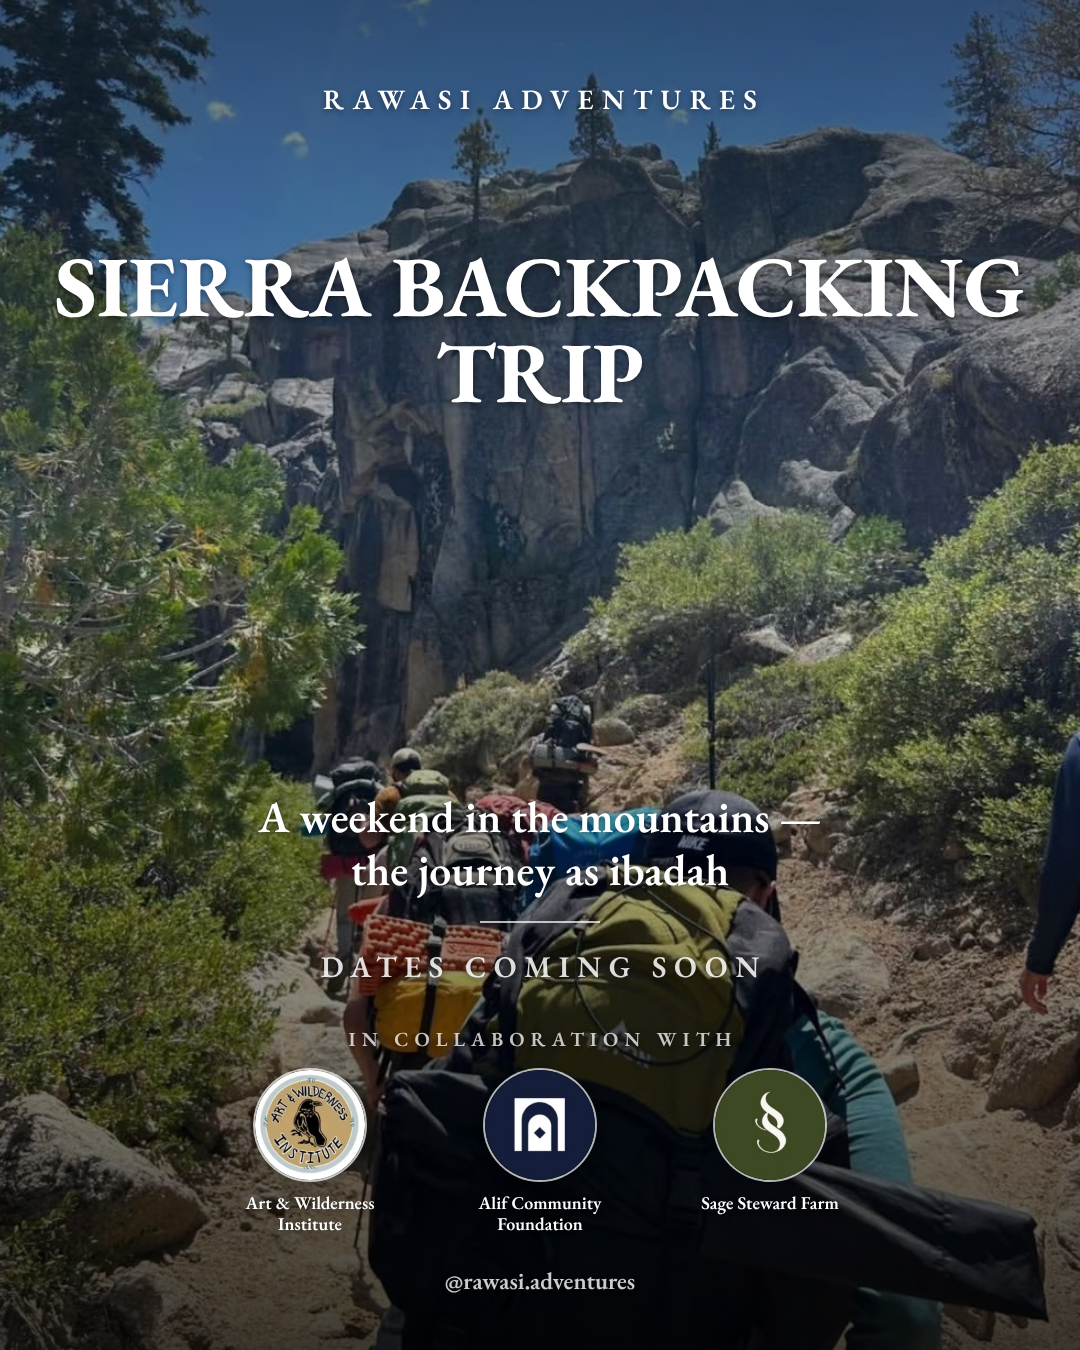
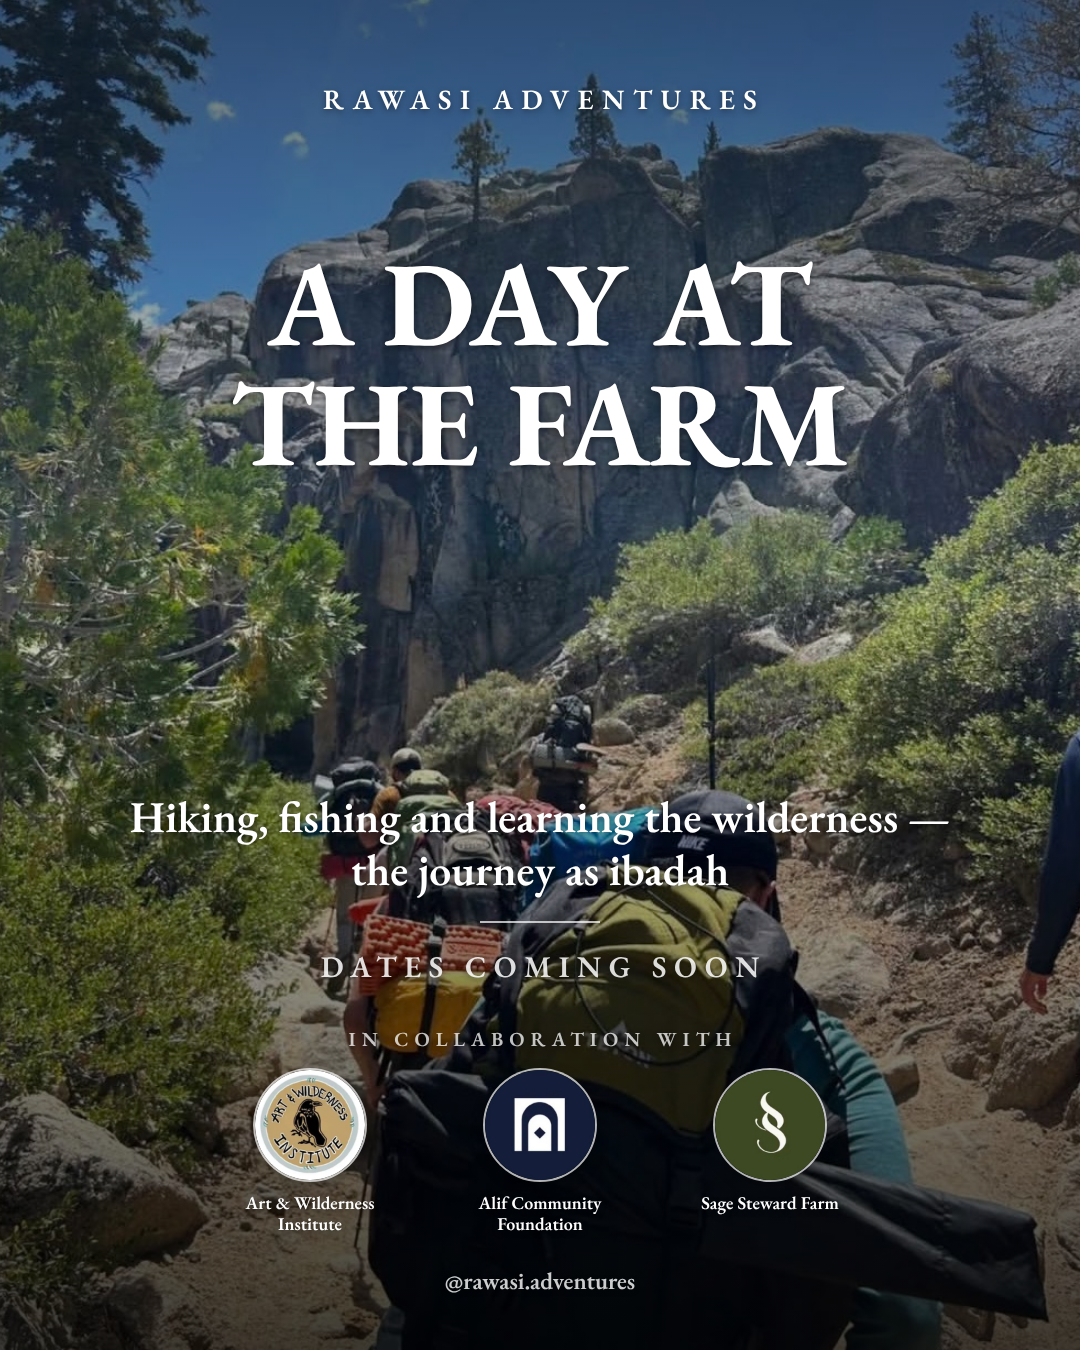
Retitle flyer as a day at the farm
Headline is now "A DAY AT / THE FARM" at 120px, and the subtitle
covers hiking, fishing and learning the wilderness.

Claude-Session: https://claude.ai/code/session_01XYZavWqfDaC2UMsvxFWpYF

Changed region(s): [[0.0306, 0.1867, 0.9472, 0.3422], [0.1222, 0.5911, 0.825, 0.6222]]

diff --git a/rawasi-hike-flyer.html b/rawasi-hike-flyer.html
@@ -3,7 +3,7 @@
 <head>
 <meta charset="UTF-8" />
 <meta name="viewport" content="width=device-width, initial-scale=1.0" />
-<title>Rawasi Adventures — Sierra Backpacking Trip</title>
+<title>Rawasi Adventures — A Day at the Farm</title>
 <link rel="preconnect" href="https://fonts.googleapis.com" />
 <link rel="preconnect" href="https://fonts.gstatic.com" crossorigin />
 <link href="https://fonts.googleapis.com/css2?family=EB+Garamond:wght@600;700&display=swap" rel="stylesheet" />
@@ -41,7 +41,7 @@
 
     /* 2. Headline */
     --headline-top: 18%;
-    --headline-size: 86px;
+    --headline-size: 120px;
     --headline-weight: 700;
     --headline-line: 1.0;
     --headline-tracking: 0;
@@ -53,7 +53,7 @@
     --subtitle-size: 44px;
     --subtitle-weight: 600;
     --subtitle-line: 1.2;
-    --subtitle-max-w: 860px;
+    --subtitle-max-w: 984px;
 
     /* 5. Divider */
     --divider-w: 120px;
@@ -255,12 +255,12 @@
     <div class="brand">RAWASI ADVENTURES</div>
 
     <h1 class="headline">
-      <span>SIERRA BACKPACKING</span>
-      <span>TRIP</span>
+      <span>A DAY AT</span>
+      <span>THE FARM</span>
     </h1>
 
     <section class="stack">
-      <p class="subtitle">A weekend in the mountains —<br />the journey as ibadah</p>
+      <p class="subtitle">Hiking, fishing and learning the wilderness —<br />the journey as ibadah</p>
       <div class="divider"></div>
       <p class="dates">DATES COMING SOON</p>
 
